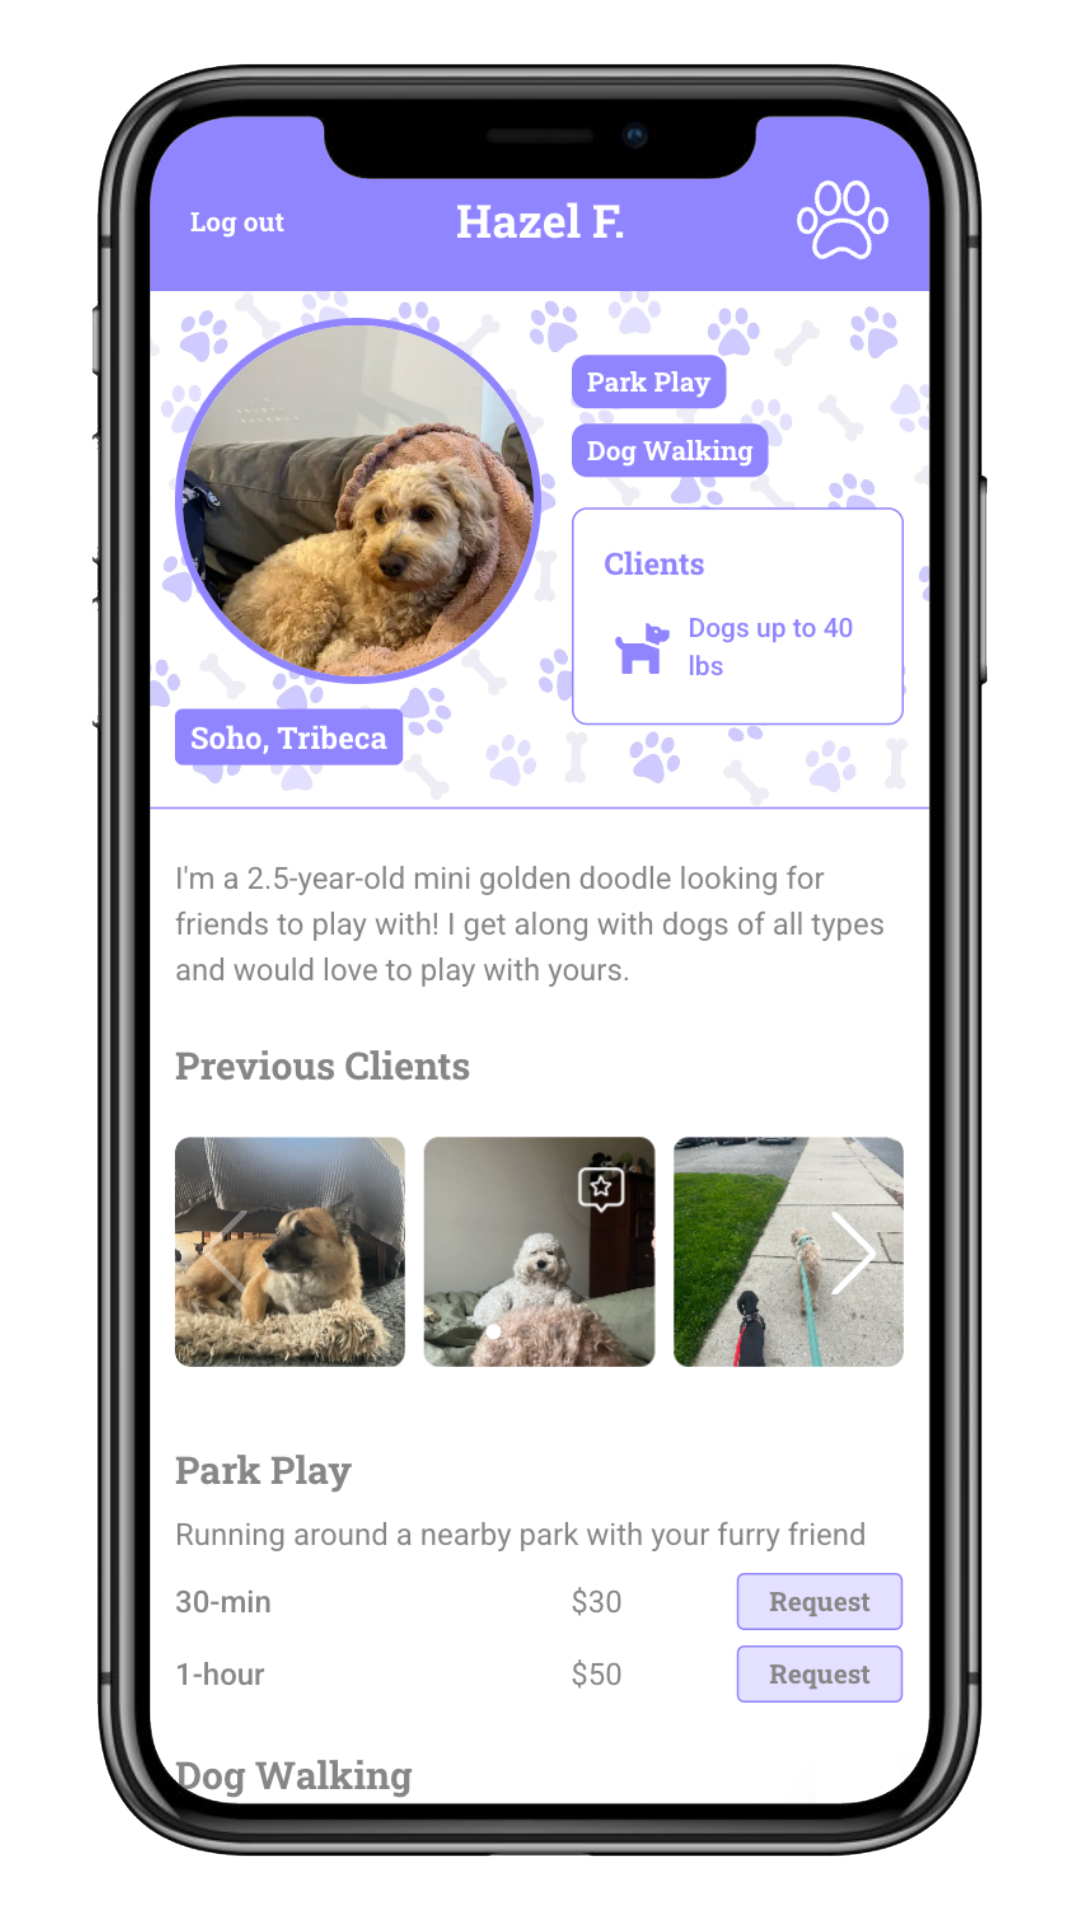
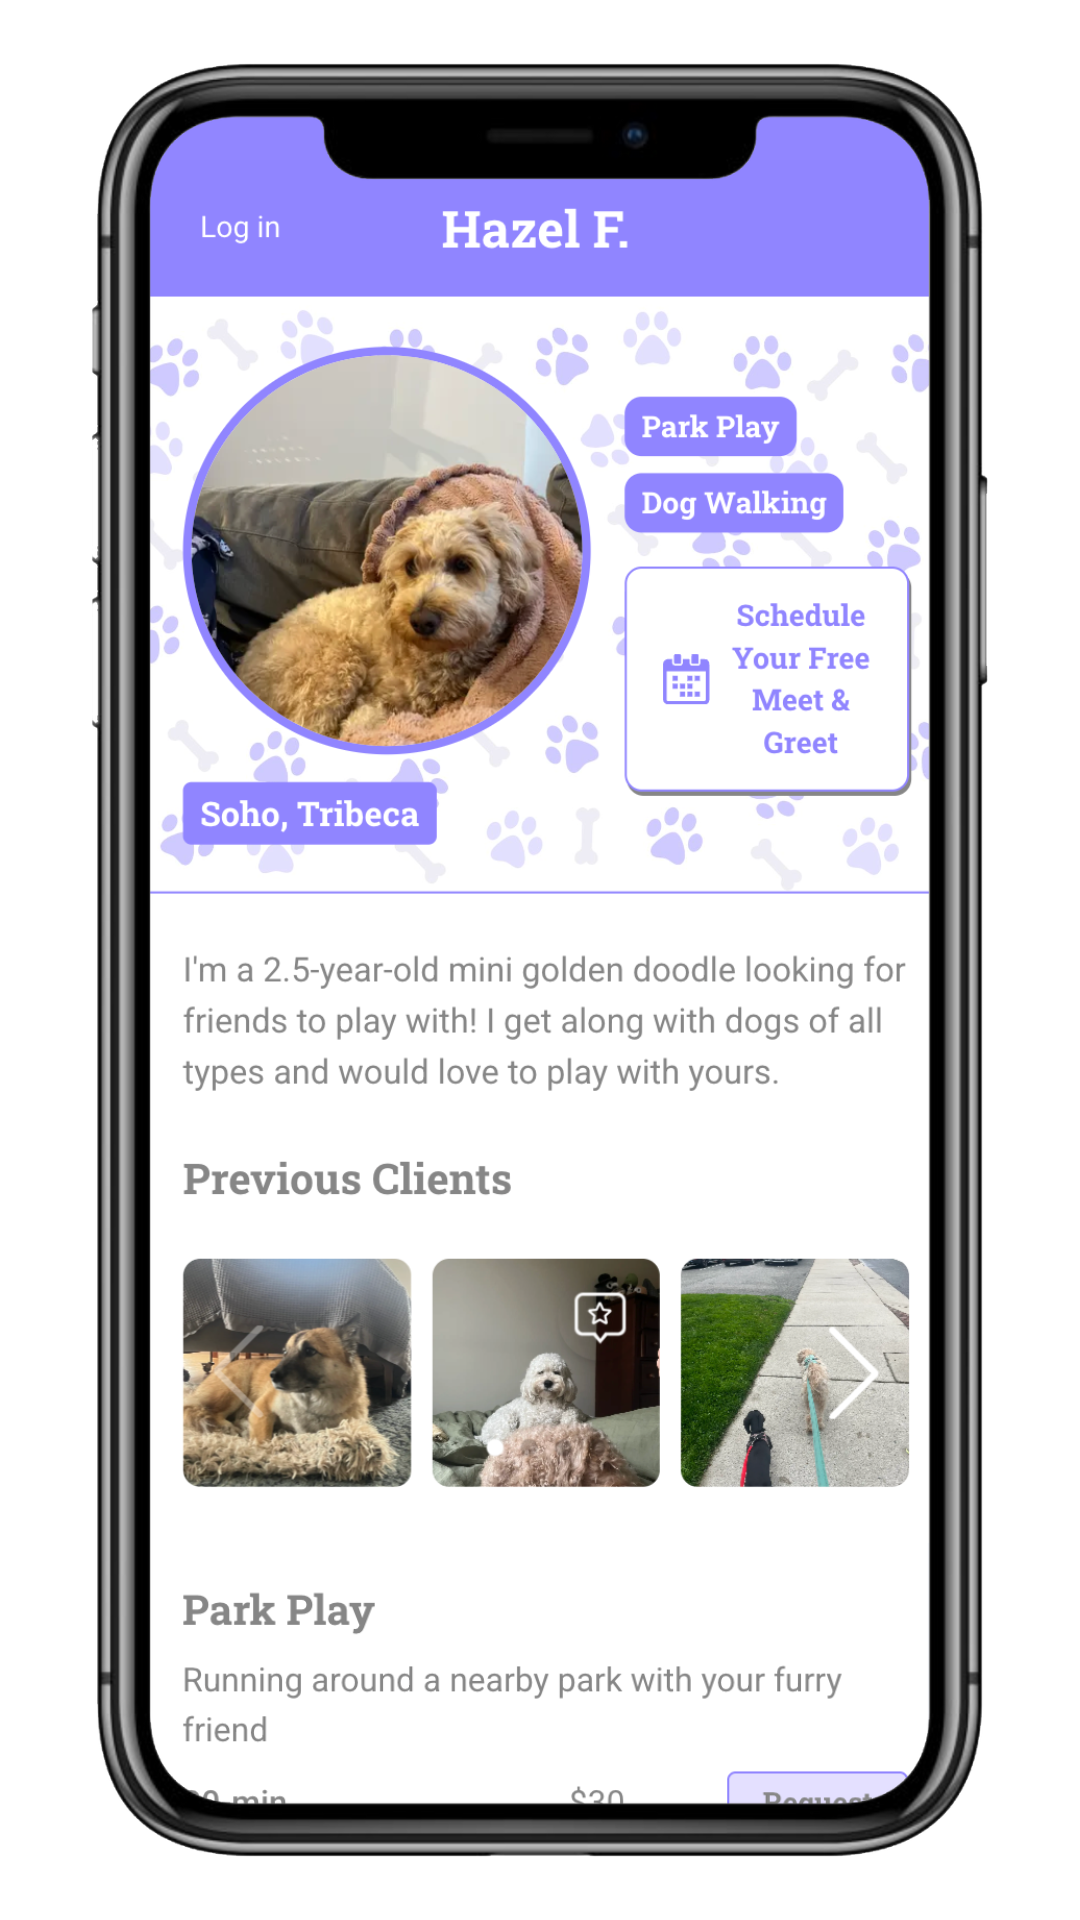
Linked meet & greet to request modal

Changed region(s): [[0.1222, 0.0938, 0.8861, 0.9375], [0.7333, 0.0938, 0.8556, 0.2188], [0.4278, 0.875, 0.4583, 0.9062]]

diff --git a/components/requestModal.tsx b/components/requestModal.tsx
@@ -2,6 +2,7 @@
 
 import React, { useState } from 'react';
 import ConfirmModal from '@/components/confirmModal';
+import MeetGreetModal from '@/components/meetGreetModal';
 
 interface Service {
   serviceType: string;
@@ -52,6 +53,7 @@ export default function RequestModal({ isOpen, onClose, profileId, serviceTypes,
   const [isSubmitting, setIsSubmitting] = useState(false);
   const [showSuccess, setShowSuccess] = useState(false);
   const [showConfirmClose, setShowConfirmClose] = useState(false);
+  const [isMeetGreetModalOpen, setIsMeetGreetModalOpen] = useState(false);
 
   if (!isOpen) return null;
 
@@ -275,6 +277,18 @@ export default function RequestModal({ isOpen, onClose, profileId, serviceTypes,
           >
             ×
           </button>
+        </div>
+
+        {/* Meet & Greet Notice */}
+        <div className="mb-6 p-4 bg-purple-50 border border-purple-200 rounded-lg text-sm text-gray-700">
+          All new clients are required to complete a complimentary meet & greet before submitting a booking.{' '}
+          <button
+            onClick={() => setIsMeetGreetModalOpen(true)}
+            className="text-[#9185FF] hover:text-[#5B4FC6] underline font-medium shadow-none"
+          >
+            Schedule yours now.
+          </button>
+          .
         </div>
 
         {/* Services */}
@@ -510,6 +524,14 @@ export default function RequestModal({ isOpen, onClose, profileId, serviceTypes,
         confirmButtonClass="bg-red-600 hover:bg-red-700"
         onConfirm={confirmClose}
         onCancel={cancelClose}
+      />
+
+      {/* Meet & Greet Modal */}
+      <MeetGreetModal
+        isOpen={isMeetGreetModalOpen}
+        onClose={() => setIsMeetGreetModalOpen(false)}
+        profileId={profileId}
+        serviceTypes={serviceTypes.map(st => ({ type: st.type }))}
       />
     </div>
   );
